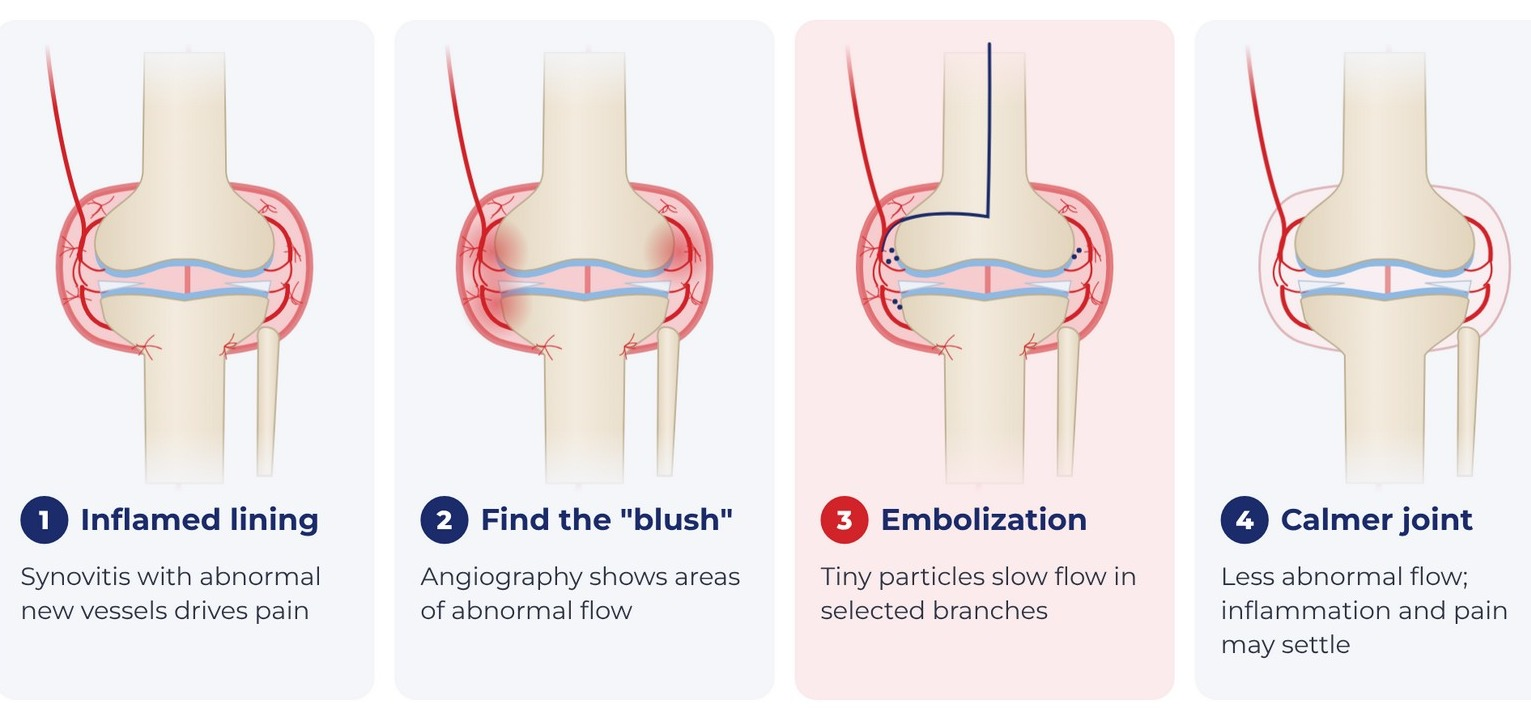
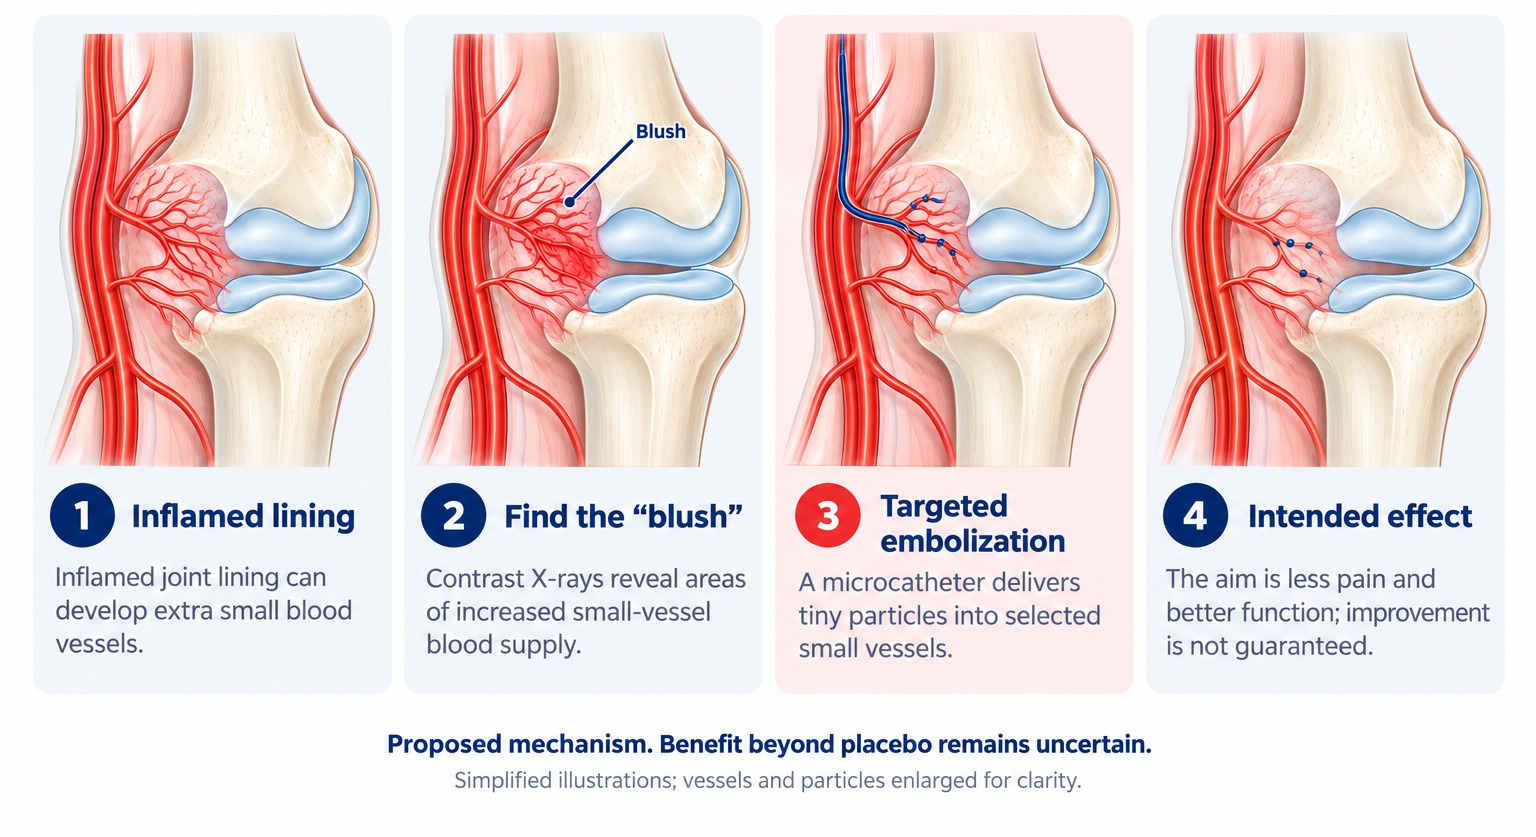
Flip J13a and provider newsletter p3: new How GAE works illustration
Claude-Session: https://claude.ai/code/session_011FeJdRfmDCgTZcMtNMgwbg

diff --git a/source/ProviderNewsNov2026p3.dc.html b/source/ProviderNewsNov2026p3.dc.html
@@ -16,7 +16,7 @@ body{margin:0}
 <div style="width: 816px; height: 1056px; box-sizing: border-box; background: #FFFFFF; color: #1b2230; font-family: 'Public Sans', sans-serif; display: flex; flex-direction: column"><div style="display: flex; justify-content: space-between; align-items: center; padding: 22px 48px 10px; border-bottom: 3px solid #04246f"><span style="font-size: 11px; font-weight: 700; letter-spacing: .16em; text-transform: uppercase; color: #04246f">Fall into Motion · Referring-Provider Newsletter</span><span style="font-size: 11px; font-weight: 700; letter-spacing: .16em; text-transform: uppercase; color: #c80e13">November 2026</span></div><main style="flex: 1; min-height: 0; padding: 18px 48px 0; display: flex; flex-direction: column; gap: 12px">
 <p style="margin: 0; font-size: 11.5px; font-weight: 700; letter-spacing: .16em; text-transform: uppercase; color: #c80e13">Clinical focus · GAE and TAME</p>
 <h1 style="margin: 0; font-family: 'Newsreader', Georgia, serif; font-weight: 500; font-size: 32px; line-height: 1.08; letter-spacing: -.01em; color: #04246f">Match the intervention to the diagnosis</h1>
-<div style="display: grid; grid-template-columns: 1fr 1.15fr; gap: 20px; align-items: start"><div style="display: flex; flex-direction: column; gap: 8px; min-width: 0"><p style="margin: 0; font-family: 'Newsreader', Georgia, serif; font-style: italic; font-size: 18px; line-height: 1.4; color: #4a5363">Persistent symptoms, functional loss, prior treatment, and imaging should guide the evaluation.</p><p style="margin: 0; font-size: 11.5px; line-height: 1.55; color: #4a5363"><b>How GAE is designed to work:</b> an inflamed lining with abnormal new vessels; angiography finds the &ldquo;blush&rdquo;; tiny particles slow flow in selected branches; inflammation and pain may settle.</p></div><img src="/_blob/76c7afdca08a02edaf08e267f58dbaff" alt="Four-step illustration of GAE: an inflamed knee lining, the abnormal blush on angiography, embolization of selected branches, and a calmer joint" style="width: 100%; height: 156px; object-fit: contain; object-position: 50% 50%; border-radius: 6px; background: #FFFFFF; display: block"></div>
+<div style="display: grid; grid-template-columns: 1fr 1.15fr; gap: 20px; align-items: start"><div style="display: flex; flex-direction: column; gap: 8px; min-width: 0"><p style="margin: 0; font-family: 'Newsreader', Georgia, serif; font-style: italic; font-size: 18px; line-height: 1.4; color: #4a5363">Persistent symptoms, functional loss, prior treatment, and imaging should guide the evaluation.</p><p style="margin: 0; font-size: 11.5px; line-height: 1.55; color: #4a5363"><b>How GAE is designed to work:</b> an inflamed lining with abnormal new vessels; angiography finds the &ldquo;blush&rdquo;; tiny particles slow flow in selected branches; inflammation and pain may settle.</p></div><img src="/_blob/0adcb015d3ccebaa772a6e4ddafbf020" alt="Four-step illustration of GAE: an inflamed knee lining, the abnormal blush on angiography, embolization of selected branches, and a calmer joint" style="width: 100%; height: 156px; object-fit: contain; object-position: 50% 50%; border-radius: 6px; background: #FFFFFF; display: block"></div>
 <div style="display: grid; grid-template-columns: repeat(2, minmax(0, 1fr)); gap: 22px; align-items: start"><div style="display: flex; flex-direction: column; gap: 6px; min-width: 0"><h2 style="margin: 0; font-family: 'Newsreader', Georgia, serif; font-weight: 600; font-size: 18px; line-height: 1.2; color: #04246f">GAE for symptomatic knee osteoarthritis</h2><p style="margin: 0; font-size: 12px; line-height: 1.55">Genicular artery embolization selectively targets abnormal periarticular vascularity associated with synovial inflammation. Its purpose is symptom and functional improvement; it does not restore cartilage or correct mechanical deformity.</p><p style="margin: 0; font-size: 12px; line-height: 1.55">Consider referral for patients with clinically and radiographically supported knee osteoarthritis whose pain and activity limitations persist despite appropriate conservative management. Evaluation should address the pain generator, arthritis severity, vascular anatomy, comorbidities, and whether orthopedic management remains the more appropriate pathway.</p><p style="margin: 0; font-size: 12px; line-height: 1.55">The Society of Interventional Radiology&rsquo;s 2026 position statement supports GAE for selected patients after unsuccessful conservative therapy who are not candidates for, or wish to delay, total knee arthroplasty, and calls for larger randomized trials. This supports a defined clinical role, not universal candidacy or equivalence to joint replacement.</p></div><div style="display: flex; flex-direction: column; gap: 6px; min-width: 0"><h2 style="margin: 0; font-family: 'Newsreader', Georgia, serif; font-weight: 600; font-size: 18px; line-height: 1.2; color: #04246f">TAME for selected hip, shoulder, and hand conditions</h2><p style="margin: 0; font-size: 12px; line-height: 1.55">Transcatheter arterial microembolization targets abnormal small-vessel supply associated with selected chronic inflammatory musculoskeletal conditions. The painful body region alone does not establish candidacy. Referral should identify the suspected diagnosis and the resulting functional limitation.</p><table style="width: 100%; border-collapse: collapse; border: 1px solid #d5d9e0; border-top: 3px solid #04246f"><colgroup><col style="width: 18%"><col></colgroup><thead><tr><th style="text-align: left; padding: 8px 14px; font-size: 11.5px; font-weight: 700; letter-spacing: .12em; text-transform: uppercase; color: #FFFFFF; background: #04246f">Area</th><th style="text-align: left; padding: 8px 14px; font-size: 11.5px; font-weight: 700; letter-spacing: .12em; text-transform: uppercase; color: #FFFFFF; background: #04246f">Useful referral detail</th></tr></thead><tbody><tr><td style="padding: 5px 12px; font-family: 'Newsreader', Georgia, serif; font-weight: 600; font-size: 15px; color: #04246f; border-bottom: 1px solid #d5d9e0; vertical-align: top; background: #f2f5fa">Hip</td><td style="padding: 5px 12px; font-size: 12px; line-height: 1.4; border-bottom: 1px solid #d5d9e0; vertical-align: top">Pain distribution, walking and sleep limitations, imaging, prior rehabilitation or injections, and evaluation of competing spinal or structural causes.</td></tr><tr><td style="padding: 5px 12px; font-family: 'Newsreader', Georgia, serif; font-weight: 600; font-size: 15px; color: #04246f; border-bottom: 1px solid #d5d9e0; vertical-align: top; background: #f2f5fa">Shoulder</td><td style="padding: 5px 12px; font-size: 12px; line-height: 1.4; border-bottom: 1px solid #d5d9e0; vertical-align: top">Range-of-motion loss, suspected adhesive capsulitis or other diagnosis, imaging, and response to rehabilitation, medication, or injections.</td></tr><tr><td style="padding: 5px 12px; font-family: 'Newsreader', Georgia, serif; font-weight: 600; font-size: 15px; color: #04246f; border-bottom: 1px solid #d5d9e0; vertical-align: top; background: #f2f5fa">Hand</td><td style="padding: 5px 12px; font-size: 12px; line-height: 1.4; border-bottom: 1px solid #d5d9e0; vertical-align: top">Specific symptomatic joints, osteoarthritis or other suspected diagnosis, grip and dexterity limitations, and prior hand therapy or medication.</td></tr></tbody></table></div></div>
 <p style="margin: 0; font-size: 12px; line-height: 1.55"><b>Evidence remains indication-specific.</b> Published reports include a 2025 retrospective shoulder study in refractory adhesive capsulitis and a 2026 retrospective hip osteoarthritis study; hand evidence includes small early studies. Knee results should not be generalized to every hip, shoulder, or hand condition. Counseling should address expected benefit, uncertainty, alternatives, access-site and contrast risks, and nontarget embolization. Do not delay indicated orthopedic, rheumatologic, or other specialist care.</p>
 <div style="background: #04246f; color: #FFFFFF; border-left: 6px solid #c80e13; border-radius: 4px; padding: 14px 20px; display: flex; flex-direction: column; gap: 6px"><p style="margin: 0; font-size: 12px; font-weight: 700; letter-spacing: .14em; text-transform: uppercase; color: #f6b3b5">Document function, not only pain intensity</p><p style="margin: 0; font-family: 'Newsreader', Georgia, serif; font-size: 16px; line-height: 1.35">Walking distance · stair tolerance · sleep · dressing · grip · work demands</p><p style="margin: 0; font-size: 12px; line-height: 1.45; color: #d9e1f0">Define an activity goal that can be revisited after treatment.</p></div>

diff --git a/js/templates.js b/js/templates.js
@@ -763,7 +763,7 @@ window.AJPVC_TEMPLATES = [
     "label": "J13a · How GAE Is Designed to Work (patient side)",
     "w": 1056,
     "h": 816,
-    "html": "<div style=\"width: 1056px; height: 816px; box-sizing: border-box; background: #FFFEFB; color: #1B2440; font-family: 'Public Sans', sans-serif; display: flex; flex-direction: column; padding: 34px 44px 26px; gap: 20px\">\n<div style=\"display: flex; justify-content: space-between; align-items: flex-end; gap: 24px; border-bottom: 5px solid #C8231E; padding-bottom: 14px\">\n<div style=\"display: flex; flex-direction: column; gap: 4px\"><p style=\"margin: 0; font-family: 'Montserrat', sans-serif; font-weight: 700; font-size: 15px; letter-spacing: 3px; text-transform: uppercase; color: #C8231E\">Joint pain</p>\n<h1 style=\"margin: 0; font-family: 'Montserrat', sans-serif; font-weight: 800; font-size: 44px; line-height: 1.05; color: #16306E\">How GAE Is Designed to Work</h1></div>\n<div style=\"display: flex; align-items: center; gap: 14px\"><img src=\"assets/logo-hvlc.png\" alt=\"Heart Vascular &amp; Leg Center logo\" style=\"height: 34px; width: 78px; object-fit: contain; object-position: left center\"><span style=\"width: 1px; height: 27px; background: #E2DED4\"></span><img src=\"assets/logo-long-nodivision.png\" alt=\"Advanced Joint Pain &amp; Vascular Center logo\" style=\"height: 34px; width: 129px; object-fit: contain; object-position: left center\"></div></div>\n<main style=\"flex: 1; min-height: 0; display: flex; flex-direction: column; gap: 16px\"><div style=\"flex: 1; min-height: 0; display: flex; flex-direction: column; gap: 10px\"><div style=\"flex: 1; min-height: 0; min-width: 0; background: #FFFFFF; border-radius: 18px; overflow: hidden; display: flex\"><img src=\"assets/book-how_gae.jpg\" alt=\"Four knee illustrations in sequence: an inflamed lining with abnormal vessels, angiography finding the blush, embolization with a catheter and tiny particles, and a calmer joint with less abnormal flow.\" style=\"width: 100%; height: 100%; object-fit: contain; object-position: 50% 50%; display: block\"></div></div><div style=\"display: flex; gap: 24px\"><div style=\"flex: 1; min-width: 0; display: flex; gap: 12px; align-items: flex-start; border-top: 4px solid #C8231E; padding-top: 12px\"><p style=\"margin: 0; font-size: 22px; line-height: 1.32; color: #1B2440\">An inflamed lining with extra vessels can drive pain.</p></div><div style=\"flex: 1; min-width: 0; display: flex; gap: 12px; align-items: flex-start; border-top: 4px solid #C8231E; padding-top: 12px\"><p style=\"margin: 0; font-size: 22px; line-height: 1.32; color: #1B2440\">X-ray dye shows these areas as a cloudy “blush.”</p></div><div style=\"flex: 1; min-width: 0; display: flex; gap: 12px; align-items: flex-start; border-top: 4px solid #C8231E; padding-top: 12px\"><p style=\"margin: 0; font-size: 22px; line-height: 1.32; color: #1B2440\">Tiny particles slow that flow so the joint may calm down.</p></div></div></main></div>"
+    "html": "<div style=\"width: 1056px; height: 816px; box-sizing: border-box; background: #FFFEFB; color: #1B2440; font-family: 'Public Sans', sans-serif; display: flex; flex-direction: column; padding: 34px 44px 26px; gap: 20px\">\n<div style=\"display: flex; justify-content: space-between; align-items: flex-end; gap: 24px; border-bottom: 5px solid #C8231E; padding-bottom: 14px\">\n<div style=\"display: flex; flex-direction: column; gap: 4px\"><p style=\"margin: 0; font-family: 'Montserrat', sans-serif; font-weight: 700; font-size: 15px; letter-spacing: 3px; text-transform: uppercase; color: #C8231E\">Joint pain</p>\n<h1 style=\"margin: 0; font-family: 'Montserrat', sans-serif; font-weight: 800; font-size: 44px; line-height: 1.05; color: #16306E\">How GAE Is Designed to Work</h1></div>\n<div style=\"display: flex; align-items: center; gap: 14px\"><img src=\"assets/logo-hvlc.png\" alt=\"Heart Vascular &amp; Leg Center logo\" style=\"height: 34px; width: 78px; object-fit: contain; object-position: left center\"><span style=\"width: 1px; height: 27px; background: #E2DED4\"></span><img src=\"assets/logo-long-nodivision.png\" alt=\"Advanced Joint Pain &amp; Vascular Center logo\" style=\"height: 34px; width: 129px; object-fit: contain; object-position: left center\"></div></div>\n<main style=\"flex: 1; min-height: 0; display: flex; flex-direction: column; gap: 16px\"><div style=\"flex: 1; min-height: 0; display: flex; flex-direction: column; gap: 10px\"><div style=\"flex: 1; min-height: 0; min-width: 0; background: #FFFFFF; border-radius: 18px; overflow: hidden; display: flex\"><img src=\"assets/book-how_gae.jpg\" alt=\"Four panels showing how GAE is designed to work: an inflamed joint lining with extra small vessels, the contrast X-ray blush, targeted embolization through a microcatheter, and the intended effect of less pain and better function\" style=\"width: 100%; height: 100%; object-fit: contain; object-position: 50% 50%; display: block\"></div></div><div style=\"display: flex; gap: 24px\"><div style=\"flex: 1; min-width: 0; display: flex; gap: 12px; align-items: flex-start; border-top: 4px solid #C8231E; padding-top: 12px\"><p style=\"margin: 0; font-size: 22px; line-height: 1.32; color: #1B2440\">An inflamed lining with extra vessels can drive pain.</p></div><div style=\"flex: 1; min-width: 0; display: flex; gap: 12px; align-items: flex-start; border-top: 4px solid #C8231E; padding-top: 12px\"><p style=\"margin: 0; font-size: 22px; line-height: 1.32; color: #1B2440\">X-ray dye shows these areas as a cloudy “blush.”</p></div><div style=\"flex: 1; min-width: 0; display: flex; gap: 12px; align-items: flex-start; border-top: 4px solid #C8231E; padding-top: 12px\"><p style=\"margin: 0; font-size: 22px; line-height: 1.32; color: #1B2440\">Tiny particles slow that flow so the joint may calm down.</p></div></div></main></div>"
    },
    {
     "label": "J13b · How GAE Is Designed to Work (provider side)",

diff --git a/source/FlipJ13HowGae.dc.html b/source/FlipJ13HowGae.dc.html
@@ -18,7 +18,7 @@ body{margin:0}
 <div style="display: flex; flex-direction: column; gap: 4px"><p style="margin: 0; font-family: 'Montserrat', sans-serif; font-weight: 700; font-size: 15px; letter-spacing: 3px; text-transform: uppercase; color: #C8231E">Joint pain</p>
 <h1 style="margin: 0; font-family: 'Montserrat', sans-serif; font-weight: 800; font-size: 44px; line-height: 1.05; color: #16306E">How GAE Is Designed to Work</h1></div>
 <div style="display: flex; align-items: center; gap: 14px"><img src="/_blob/1e4ce51a5c3cb793b6317890e43e495e" alt="Heart Vascular &amp; Leg Center logo" style="height: 34px; width: 78px; object-fit: contain; object-position: left center"><span style="width: 1px; height: 27px; background: #E2DED4"></span><img src="/_blob/48c0202744b17fe1f033a36586de7a92" alt="Advanced Joint Pain &amp; Vascular Center logo" style="height: 34px; width: 129px; object-fit: contain; object-position: left center"></div></div>
-<main style="flex: 1; min-height: 0; display: flex; flex-direction: column; gap: 16px"><div style="flex: 1; min-height: 0; display: flex; flex-direction: column; gap: 10px"><div style="flex: 1; min-height: 0; min-width: 0; background: #FFFFFF; border-radius: 18px; overflow: hidden; display: flex"><img src="/_blob/76c7afdca08a02edaf08e267f58dbaff" alt="Four knee illustrations in sequence: an inflamed lining with abnormal vessels, angiography finding the blush, embolization with a catheter and tiny particles, and a calmer joint with less abnormal flow." style="width: 100%; height: 100%; object-fit: contain; object-position: 50% 50%; display: block"></div></div><div style="display: flex; gap: 24px"><div style="flex: 1; min-width: 0; display: flex; gap: 12px; align-items: flex-start; border-top: 4px solid #C8231E; padding-top: 12px"><p style="margin: 0; font-size: 22px; line-height: 1.32; color: #1B2440">An inflamed lining with extra vessels can drive pain.</p></div><div style="flex: 1; min-width: 0; display: flex; gap: 12px; align-items: flex-start; border-top: 4px solid #C8231E; padding-top: 12px"><p style="margin: 0; font-size: 22px; line-height: 1.32; color: #1B2440">X-ray dye shows these areas as a cloudy “blush.”</p></div><div style="flex: 1; min-width: 0; display: flex; gap: 12px; align-items: flex-start; border-top: 4px solid #C8231E; padding-top: 12px"><p style="margin: 0; font-size: 22px; line-height: 1.32; color: #1B2440">Tiny particles slow that flow so the joint may calm down.</p></div></div></main></div>
+<main style="flex: 1; min-height: 0; display: flex; flex-direction: column; gap: 16px"><div style="flex: 1; min-height: 0; display: flex; flex-direction: column; gap: 10px"><div style="flex: 1; min-height: 0; min-width: 0; background: #FFFFFF; border-radius: 18px; overflow: hidden; display: flex"><img src="/_blob/0adcb015d3ccebaa772a6e4ddafbf020" alt="Four panels showing how GAE is designed to work: an inflamed joint lining with extra small vessels, the contrast X-ray blush, targeted embolization through a microcatheter, and the intended effect of less pain and better function" style="width: 100%; height: 100%; object-fit: contain; object-position: 50% 50%; display: block"></div></div><div style="display: flex; gap: 24px"><div style="flex: 1; min-width: 0; display: flex; gap: 12px; align-items: flex-start; border-top: 4px solid #C8231E; padding-top: 12px"><p style="margin: 0; font-size: 22px; line-height: 1.32; color: #1B2440">An inflamed lining with extra vessels can drive pain.</p></div><div style="flex: 1; min-width: 0; display: flex; gap: 12px; align-items: flex-start; border-top: 4px solid #C8231E; padding-top: 12px"><p style="margin: 0; font-size: 22px; line-height: 1.32; color: #1B2440">X-ray dye shows these areas as a cloudy “blush.”</p></div><div style="flex: 1; min-width: 0; display: flex; gap: 12px; align-items: flex-start; border-top: 4px solid #C8231E; padding-top: 12px"><p style="margin: 0; font-size: 22px; line-height: 1.32; color: #1B2440">Tiny particles slow that flow so the joint may calm down.</p></div></div></main></div>
 </x-dc>
 <script type="text/x-dc" data-dc-script data-props='{"$preview":{"width":1056,"height":816}}'>
 class Component extends DCLogic {
